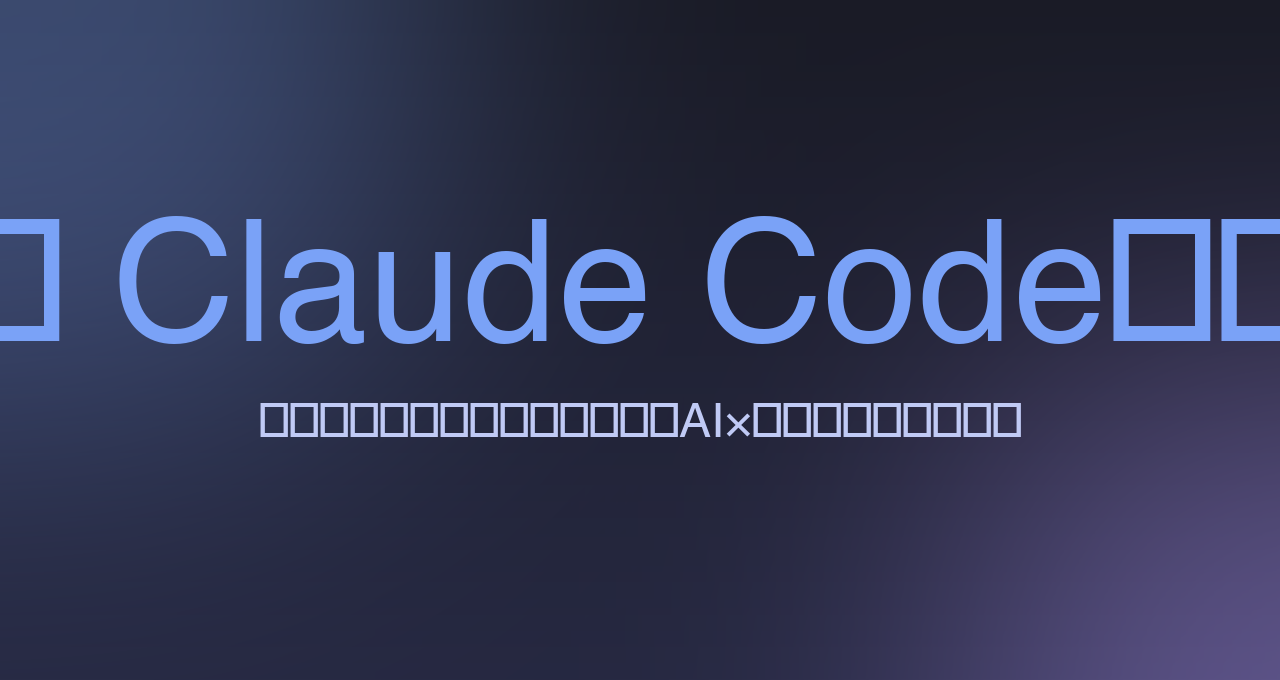
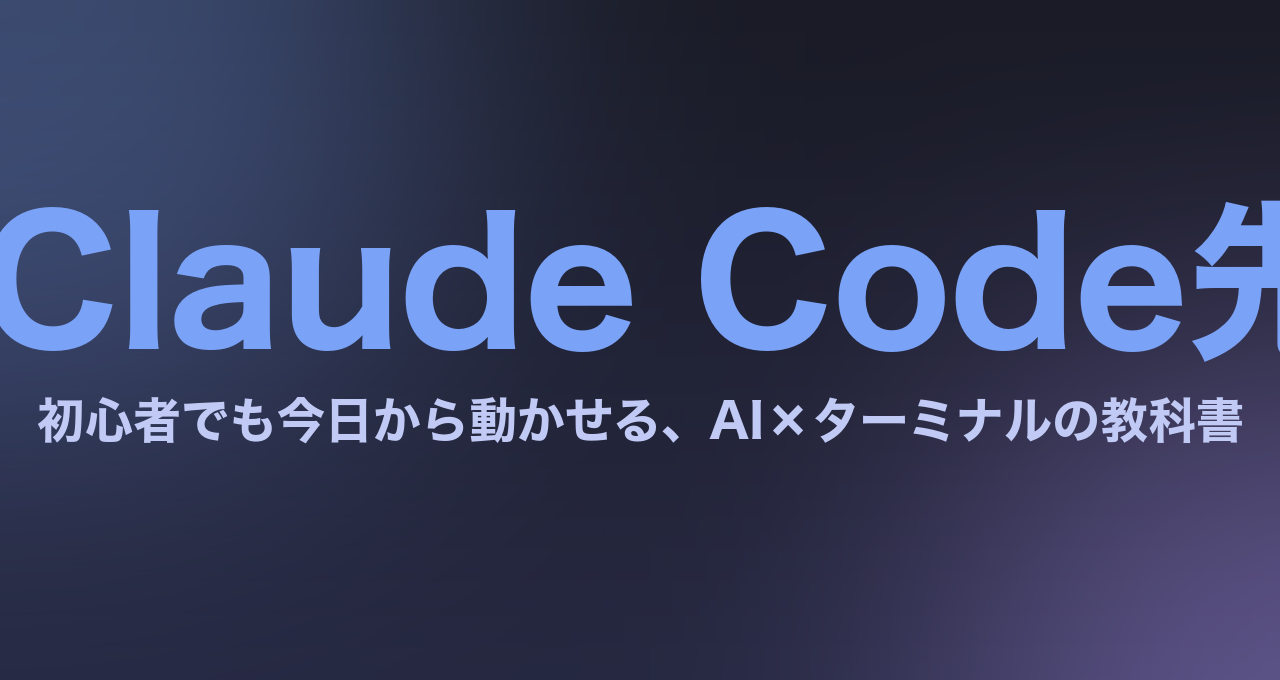
Fix Japanese font rendering in brand assets (use Hiragino)

Changed region(s): [[0.0, 0.2779, 1.0, 0.525], [0.0312, 0.5868, 0.9688, 0.6485]]

diff --git a/assets/generate_brand_assets.py b/assets/generate_brand_assets.py
@@ -30,16 +30,22 @@ TEXT = (192, 202, 245)    # #c0caf5
 TEXT_DIM = (169, 177, 214) # #a9b1d6
 TEXT_FAINT = (86, 95, 137) # #565f89
 
+# 日本語対応フォントを優先（ヒラギノ等は日本語＋ASCII両対応）
 FONT_BOLD_CANDIDATES = [
-    "/System/Library/Fonts/SFCompactDisplay.ttf",
-    "/System/Library/Fonts/Helvetica.ttc",
+    "/System/Library/Fonts/ヒラギノ角ゴシック W7.ttc",
+    "/System/Library/Fonts/ヒラギノ角ゴシック W6.ttc",
+    "/System/Library/Fonts/ヒラギノ角ゴシック W5.ttc",
     "/Library/Fonts/Arial Unicode.ttf",
-    "/System/Library/Fonts/HelveticaNeue.ttc",
+    "/System/Library/Fonts/Hiragino Sans GB.ttc",
+    "/System/Library/Fonts/STHeiti Medium.ttc",
+    "/System/Library/Fonts/PingFang.ttc",
+    "/System/Library/Fonts/Helvetica.ttc",
 ]
 FONT_MONO_CANDIDATES = [
-    "/System/Library/Fonts/SFNSMono.ttf",
+    "/System/Library/Fonts/ヒラギノ角ゴシック W3.ttc",
+    "/Library/Fonts/Arial Unicode.ttf",
     "/System/Library/Fonts/Menlo.ttc",
-    "/Library/Fonts/Courier New.ttf",
+    "/System/Library/Fonts/Hiragino Sans GB.ttc",
 ]
 
 
@@ -101,9 +107,9 @@ def make_square_logo(out: Path, size: int = 1080):
     sub_font = _load_font(FONT_BOLD_CANDIDATES, size // 18)
     _draw_centered_text(draw, "Claude Code先生", sub_font, size // 2, size // 2 + size // 4, fill=TEXT)
 
-    # 装飾: 上下のドット
+    # 装飾: 下部にAIタグ
     accent_font = _load_font(FONT_MONO_CANDIDATES, size // 28)
-    _draw_centered_text(draw, "//// AI × ターミナル ////", accent_font,
+    _draw_centered_text(draw, "AI × ターミナル", accent_font,
                        size // 2, size // 2 + size // 3, fill=TEXT_FAINT)
 
     img.save(out, "PNG", optimize=True)
